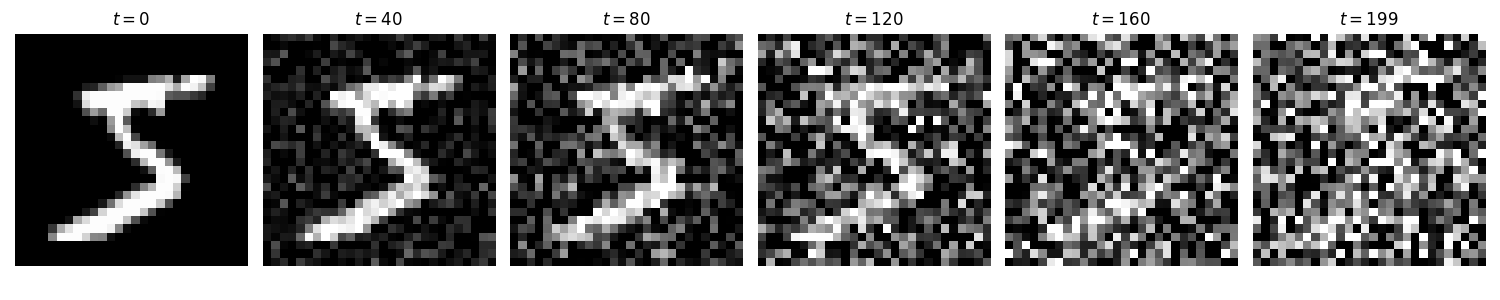
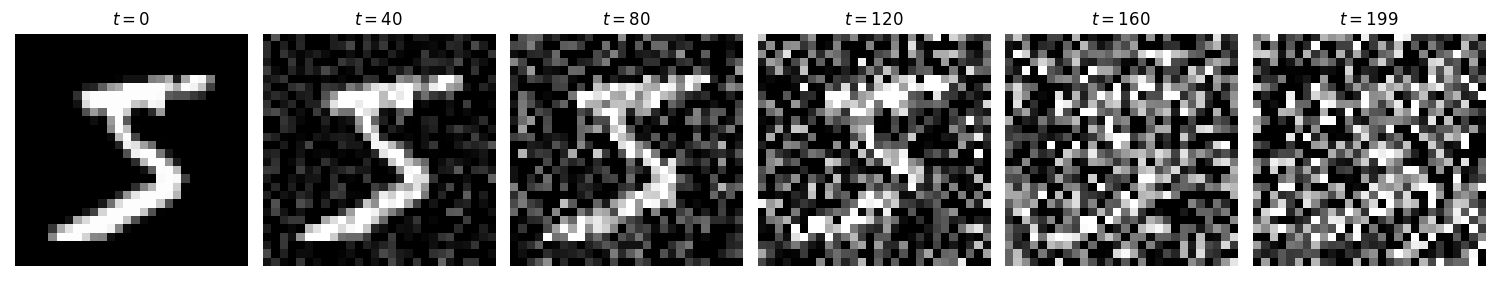
Add Capstone Agent and Update README

diff --git a/capstone_agent.py b/capstone_agent.py
@@ -1,0 +1,185 @@
+import os
+import re
+import torch
+import matplotlib.pyplot as plt
+from torchvision.utils import make_grid
+from openai import OpenAI
+
+# Import components from our previous modules
+from rag_pipeline import rag_query
+from unet import SimpleUNet
+from diffusion_forward import linear_beta_schedule
+
+# Load environment variables
+if os.path.exists(".env"):
+    with open(".env") as f:
+        for line in f:
+            if line.strip() and not line.startswith("#"):
+                key, val = line.strip().split("=", 1)
+                os.environ[key] = val
+
+client = OpenAI(
+    api_key=os.environ.get("GROQ_API_KEY"),
+    base_url="https://api.groq.com/openai/v1"
+)
+MODEL = "llama-3.1-8b-instant"
+
+# ==========================================
+# 1. Define Custom Tools
+# ==========================================
+
+def search_knowledge_base(query: str) -> str:
+    """Searches the local RAG ChromaDB for answers."""
+    try:
+        print(f"\n[Tool: search_knowledge_base] Querying for: {query}")
+        result = rag_query(query)
+        return result
+    except Exception as e:
+        return f"Error querying RAG: {e}"
+
+def generate_digits(num_images_str: str) -> str:
+    """Generates novel MNIST digits using the PyTorch DDPM."""
+    try:
+        num_images = int(num_images_str)
+        print(f"\n[Tool: generate_digits] Generating {num_images} digits using PyTorch DDPM...")
+        
+        device = torch.device("cuda" if torch.cuda.is_available() else "cpu")
+        model = SimpleUNet().to(device)
+        model.load_state_dict(torch.load('models/ddpm_mnist.pth', map_location=device, weights_only=True))
+        model.eval()
+        
+        timesteps = 200
+        betas = linear_beta_schedule(timesteps).to(device)
+        alphas = 1. - betas
+        alphas_cumprod = torch.cumprod(alphas, dim=0)
+        
+        sqrt_recip_alphas = torch.sqrt(1.0 / alphas)
+        sqrt_one_minus_alphas_cumprod = torch.sqrt(1. - alphas_cumprod)
+        posterior_variance = betas
+        
+        x = torch.randn((num_images, 1, 28, 28)).to(device)
+        
+        with torch.no_grad():
+            for t in reversed(range(timesteps)):
+                t_tensor = torch.full((num_images,), t, device=device, dtype=torch.long)
+                predicted_noise = model(x, t_tensor)
+                
+                alpha = alphas[t]
+                alpha_cumprod = alphas_cumprod[t]
+                mean = sqrt_recip_alphas[t] * (x - ((1.0 - alpha) / sqrt_one_minus_alphas_cumprod[t]) * predicted_noise)
+                
+                if t > 0:
+                    noise = torch.randn_like(x)
+                    sigma = torch.sqrt(posterior_variance[t])
+                    x = mean + sigma * noise
+                else:
+                    x = mean
+        
+        final_images = x
+        final_images = (final_images + 1.0) / 2.0
+        final_images = torch.clamp(final_images, 0, 1)
+        
+        # Determine nrow for a neat grid
+        nrow = int(torch.sqrt(torch.tensor(num_images).float()).ceil().item())
+        grid = make_grid(final_images.cpu(), nrow=nrow, padding=2, normalize=False)
+        
+        plt.figure(figsize=(6, 6))
+        plt.imshow(grid.permute(1, 2, 0).numpy())
+        plt.axis('off')
+        plt.title(f"Generated {num_images} Digits")
+        
+        output_path = os.path.join("outputs", "capstone_generated.png")
+        plt.savefig(output_path)
+        plt.close()
+        
+        return f"Successfully generated {num_images} digits and saved them to {output_path}"
+    except Exception as e:
+        return f"Error generating images: {e}"
+
+TOOLS = {
+    "search_knowledge_base": search_knowledge_base,
+    "generate_digits": generate_digits
+}
+
+# ==========================================
+# 2. System Prompt Definition
+# ==========================================
+
+SYSTEM_PROMPT = """You are an advanced Capstone Agent capable of researching AI concepts and generating images.
+You have access to the following tools:
+
+- search_knowledge_base: Searches a vector database to answer questions about Transformers, DDPMs, or VAEs. Input should be the search query string.
+- generate_digits: Generates novel MNIST digits using a Diffusion Model. Input should be an integer representing the number of images to generate (e.g., '4').
+
+You must solve the user's request by utilizing these tools. Use the following strict format:
+
+Question: the input question you must answer
+Thought: you should always think about what to do next
+Action: the action to take, should be one of [search_knowledge_base, generate_digits]
+Action Input: the input to the action
+Observation: the result of the action (provided by the system)
+... (this Thought/Action/Action Input/Observation loop can repeat N times)
+Thought: I now know the final answer
+Final Answer: the final answer to the original input question
+
+Begin!"""
+
+# ==========================================
+# 3. The Orchestration Loop
+# ==========================================
+
+def run_agent(question: str, max_iterations: int = 7):
+    print(f"\n=======================================================")
+    print(f"Capstone Agent Initiated")
+    print(f"User Request: {question}")
+    print(f"=======================================================\n")
+    
+    messages = [
+        {"role": "system", "content": SYSTEM_PROMPT},
+        {"role": "user", "content": f"Question: {question}"}
+    ]
+    
+    for i in range(max_iterations):
+        response = client.chat.completions.create(
+            model=MODEL,
+            messages=messages,
+            stop=["Observation:"],
+            temperature=0.0
+        )
+        
+        reply = response.choices[0].message.content
+        print(f"\033[94m{reply}\033[0m")
+        
+        messages.append({"role": "assistant", "content": reply})
+        
+        if "Final Answer:" in reply:
+            print("\n=======================================================")
+            print("Agent finished successfully.")
+            print("=======================================================\n")
+            return
+            
+        action_match = re.search(r"Action: ([\w_]+)", reply)
+        action_input_match = re.search(r"Action Input: (.*)", reply)
+        
+        if action_match and action_input_match:
+            action = action_match.group(1).strip()
+            action_input = action_input_match.group(1).strip()
+            
+            if action in TOOLS:
+                observation = TOOLS[action](action_input)
+            else:
+                observation = f"Error: '{action}' is not a valid tool."
+                
+            obs_text = f"Observation: {observation}"
+            print(f"\033[92m{obs_text}\033[0m\n")
+            
+            messages.append({"role": "user", "content": obs_text})
+        else:
+            print("\033[91mError: Could not parse Action or Action Input from the response.\033[0m")
+            messages.append({"role": "user", "content": "Observation: Formatting error. Please use the exact format: 'Action: <tool>' and 'Action Input: <input>'."})
+
+    print("\nAgent reached maximum iterations without finding a final answer.")
+
+if __name__ == "__main__":
+    sample_request = "Explain the core mechanism of the Transformer architecture, and then generate 4 digits for me."
+    run_agent(sample_request)

diff --git a/rag_pipeline.py b/rag_pipeline.py
@@ -104,8 +104,10 @@ Question:
         temperature=0.0
     )
     
+    answer = response.choices[0].message.content
     print("\nAssistant:")
-    print(response.choices[0].message.content)
+    print(answer)
+    return answer
 
 if __name__ == "__main__":
     # Ensure our sample document exists

diff --git a/README.md b/README.md
@@ -11,6 +11,7 @@ A comprehensive exploration of modern Artificial Intelligence, spanning from the
   - [Conversational Memory & Tool Calling](#conversational-memory--tool-calling)
   - [ReAct Architecture](#react-architecture)
   - [RAG & Multi-Agent Systems](#rag--multi-agent-systems)
+  - [Capstone: Agentic DDPM Controller](#capstone-agentic-ddpm-controller)
 - [Installation & Setup](#installation--setup)
 
 ---
@@ -47,6 +48,9 @@ The second half transitions from generating pixels to orchestrating intelligence
 ### RAG & Multi-Agent Systems
 - **`rag_pipeline.py`**: A Retrieval-Augmented Generation (RAG) system using `ChromaDB` and HuggingFace `sentence-transformers`. It embeds local text documents into a vector database, performs similarity searches based on user queries, and feeds the relevant context directly to the LLM.
 - **`multi_agent.py`**: Orchestrates a sequential collaboration between two autonomous agents using **CrewAI**. A *Senior AI Research Analyst* extracts complex technical concepts, and a *Technical Content Strategist* transforms those notes into engaging, easy-to-understand educational content.
+
+### Capstone: Agentic DDPM Controller
+- **`capstone_agent.py`**: The grand integration of the project. This master ReAct Agent acts as a conversational interface capable of autonomously resolving queries by searching the local `ChromaDB` RAG vector store for AI concepts, and utilizing a custom tool to dynamically load the PyTorch DDPM model, generate novel MNIST digits on command, and save the result to disk.
 
 ---
 